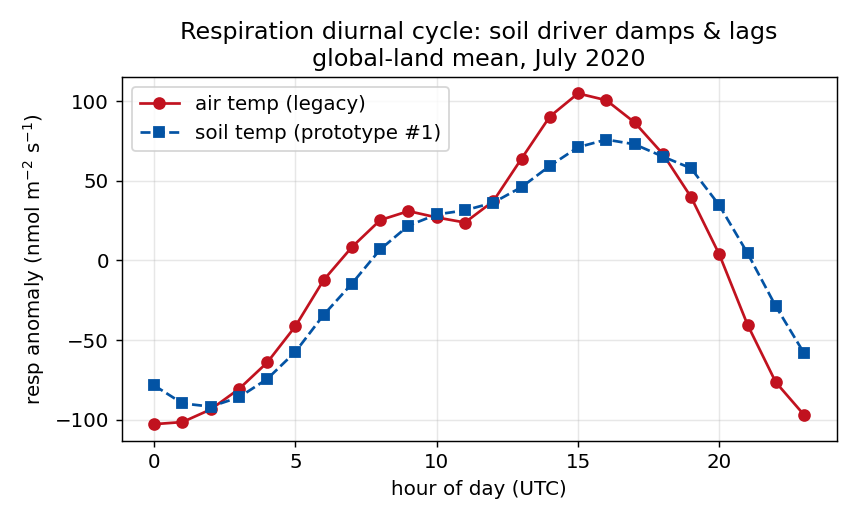
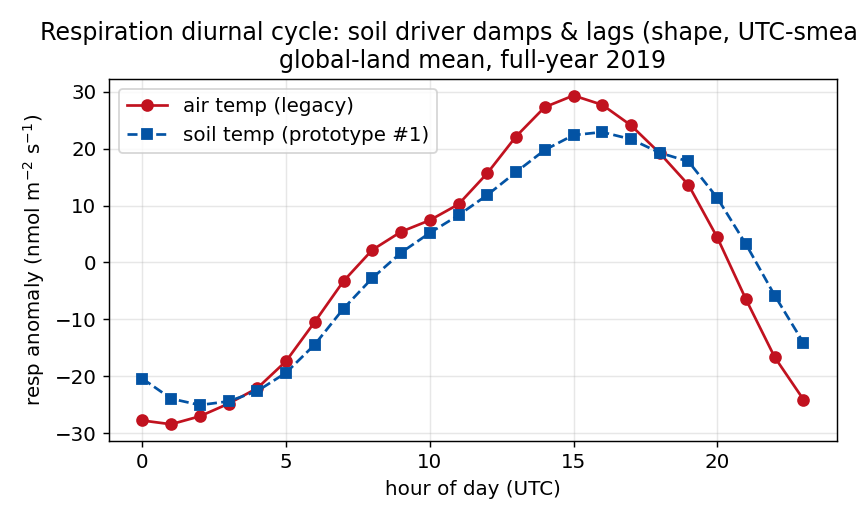
Diurnalization CIs: spatial block bootstrap (full-year 2019) + regen figures + verify_v2 re-run
- resp_driver_blockboot.py: replace the i.i.d.-cell resample (mislabeled "block
  bootstrap", far too tight given the field's spatial autocorrelation) with a
  genuine 5/10/20-degree spatial block bootstrap over the full-year-2019 matched
  PCHIP air/soil pair. NEE amplitude ratio 1.023, 95% CI [1.021,1.024] (block-10);
  survives block-20 [1.020,1.025]; all 12 months exclude 1 individually. resp ratio
  0.80 [0.78,0.83]. Block CI is ~16x wider than the i.i.d. one; conclusion holds.
- resp_driver_blockboot_figs.py + docs/figures/*.png: regenerate the 3 figures on
  full-year 2019 (were single-month July-2020); caption uses the per-cell forcing
  ratio, not the UTC-smeared global-mean-cycle ratio.
- verify_v2_rerun_20260621.txt: re-run after losslessly recovering the
  concurrent-append-corrupted run_manifest.tsv. Check 24.1 now PASSES, confirming
  the prior FAIL was a logging artifact. 49 PASS / 1 FAIL (24.2 = superseded
  PIQS-release debug records) / 2 WARN / 10 INFO.

diff --git a/fitter_diagnostics/resp_driver_blockboot.py b/fitter_diagnostics/resp_driver_blockboot.py
@@ -1,0 +1,134 @@
+#!/usr/bin/env python3
+"""Spatial block-bootstrap CIs for the soil-temp respiration driver.
+
+Replaces the i.i.d.-cell resample in resp_driver_ci_plots.py (which mislabeled
+itself a 'block bootstrap' and, by treating ~15k spatially autocorrelated land
+cells as independent, produced CIs far too tight). Here the resampling unit is a
+BxB-degree spatial block, so the CI reflects the field's spatial decorrelation.
+
+Data: full-year 2019 matched PCHIP pair (air vs soil respiration driver),
+  air  = ERA5_bp_B_pchip_air   (respiration_temperature_driver = airtemp)
+  soil = ERA5_bp_C_pchip_soil  (respiration_temperature_driver = soiltemp)
+All 12 months -> addresses both the CI-method bug and the 'July+Jan only' /
+under-powering critique.
+
+For each month: per-cell diurnal amplitude (max-min of the 24-hour climatology),
+ratio soil/air for resp and NEE on land cells. Then:
+  - naive i.i.d.-cell bootstrap   (the OLD method, for contrast)
+  - spatial block bootstrap        (resample BxB-deg blocks with replacement)
+at block sizes 5/10/20 deg, global + latitude bands + pooled-annual.
+"""
+import numpy as np, netCDF4 as nc, datetime as dt
+from dateutil.parser import parse as dparse
+
+RNG = np.random.default_rng(7)
+AIR  = "ERA5_bp_B_pchip_air"
+SOIL = "ERA5_bp_C_pchip_soil"
+MONTHS = [f"2019{m:02d}" for m in range(1, 13)]
+NLAT, NLON = 180, 360
+
+def hod_of(d):
+    t = d.variables["time"]; vals = np.asarray(t[:])
+    base = dparse(t.units.split("since")[1].strip()).replace(tzinfo=None)
+    scale = {"days":86400,"day":86400,"hours":3600,"seconds":1}[t.units.split()[0]]
+    secs = (vals*scale).astype("int64")
+    return ((secs//3600) % 24).astype(int)
+
+def amp(path, var):
+    """Per-cell diurnal amplitude (max-min over hour-of-day climatology)."""
+    d = nc.Dataset(path); hod = hod_of(d)
+    x = np.asarray(d.variables[var][:]); lat = np.asarray(d.variables["latitude"][:])
+    d.close()
+    cyc = np.stack([x[hod==h].mean(0) for h in range(24)])   # (24,lat,lon)
+    return cyc.max(0)-cyc.min(0), x.mean(0), lat
+
+def wmedian(x, w):
+    o = np.argsort(x); cw = np.cumsum(w[o])
+    return x[o][np.searchsorted(cw, 0.5*cw[-1])]
+
+# ---- accumulate small per-month ratio fields (free the hourly arrays) -------
+lat = np.arange(NLAT)  # placeholder; set from data
+fields = {"resp": [], "NEE": []}
+mnmask = []
+for ym in MONTHS:
+    rec = {}
+    for comp in ["resp", "NEE"]:
+        a_air, mn_air, lat = amp(f"{AIR}/fluxes_{ym}.nc", comp)
+        a_soil, _, _       = amp(f"{SOIL}/fluxes_{ym}.nc", comp)
+        ratio = a_soil/np.clip(a_air, 1e-30, None)
+        rec[comp] = (ratio, mn_air)
+    # land mask from resp monthly mean
+    land = np.isfinite(rec["resp"][1]) & (np.abs(rec["resp"][1]) > 1e-9)
+    mnmask.append(land)
+    fields["resp"].append(rec["resp"][0])
+    fields["NEE"].append(rec["NEE"][0])
+    print(f"loaded {ym}: {land.sum()} land cells")
+
+W2 = np.clip(np.cos(np.deg2rad(lat)), 0, None)[:, None]*np.ones((1, NLON))
+LATG = lat[:, None]*np.ones((1, NLON))
+
+def block_ids(bs):
+    """Integer block id per (lat,lon) cell for a bs-degree tiling."""
+    li = (np.arange(NLAT)//bs)[:, None]*np.ones((1, NLON), int)
+    lj = (np.arange(NLON)//bs)[None, :]*np.ones((NLAT, 1), int)
+    return li*1000 + lj
+
+def boot_iid(r, w, B=2000):
+    n = r.size; out = np.empty(B)
+    for b in range(B):
+        s = RNG.integers(0, n, n); out[b] = wmedian(r[s], w[s])
+    return np.percentile(out, [2.5, 97.5])
+
+def boot_block(r, w, blk, B=2000):
+    """Resample whole blocks with replacement; pool their cells."""
+    uniq = np.unique(blk)
+    members = {u: np.where(blk == u)[0] for u in uniq}
+    nb = uniq.size; out = np.empty(B)
+    for b in range(B):
+        pick = uniq[RNG.integers(0, nb, nb)]
+        idx = np.concatenate([members[u] for u in pick])
+        out[b] = wmedian(r[idx], w[idx])
+    return np.percentile(out, [2.5, 97.5])
+
+def pool(comp, latrange=None):
+    """Pool all 12 months: flat arrays of ratio, weight, blockid(per bs), lat."""
+    rs, ws, ls = [], [], []
+    blkmaps = {bs: [] for bs in (5, 10, 20)}
+    for k in range(12):
+        land = mnmask[k].copy()
+        if latrange is not None:
+            a, b = latrange; land &= (LATG >= a) & (LATG <= b)
+        rs.append(fields[comp][k][land]); ws.append(W2[land]); ls.append(LATG[land])
+        for bs in (5, 10, 20):
+            blkmaps[bs].append(block_ids(bs)[land])
+    r = np.concatenate(rs); w = np.concatenate(ws)
+    blk = {bs: np.concatenate(blkmaps[bs]) for bs in (5, 10, 20)}
+    return r, w, blk
+
+print("\n================ SPATIAL BLOCK BOOTSTRAP (full-year 2019) ================")
+for comp in ["resp", "NEE"]:
+    r, w, blk = pool(comp)
+    med = wmedian(r, w)
+    iid = boot_iid(r, w)
+    print(f"\n[{comp}] area-weighted median soil/air amplitude ratio = {med:.4f}")
+    print(f"   naive i.i.d.-cell  95% CI [{iid[0]:.4f}, {iid[1]:.4f}]  (width {iid[1]-iid[0]:.4f})  <- OLD METHOD")
+    for bs in (5, 10, 20):
+        ci = boot_block(r, w, blk[bs])
+        print(f"   block {bs:2d}deg       95% CI [{ci[0]:.4f}, {ci[1]:.4f}]  (width {ci[1]-ci[0]:.4f})  blocks~{np.unique(blk[bs]).size}")
+
+print("\n---- latitude bands (resp, block 10deg, annual) ----")
+BANDS = {"boreal 50-70N": (50, 70), "NH-temp 25-50N": (25, 50),
+         "tropics 25S-25N": (-25, 25), "SH-temp 50-25S": (-50, -25)}
+for nm, lr in BANDS.items():
+    r, w, blk = pool("resp", lr)
+    if r.size < 20: continue
+    med = wmedian(r, w); ci = boot_block(r, w, blk[10])
+    print(f"   {nm:16s} {med:.4f}  95% CI [{ci[0]:.4f}, {ci[1]:.4f}]")
+
+print("\n---- per-month NEE ratio (block 10deg) : seasonal coverage ----")
+for k, ym in enumerate(MONTHS):
+    land = mnmask[k]
+    r = fields["NEE"][k][land]; w = W2[land]; blk = block_ids(10)[land]
+    med = wmedian(r, w); ci = boot_block(r, w, blk, B=800)
+    print(f"   {ym}: NEE ratio {med:.4f}  95% CI [{ci[0]:.4f}, {ci[1]:.4f}]")
+print("\nDONE")

diff --git a/fitter_diagnostics/resp_driver_blockboot_figs.py b/fitter_diagnostics/resp_driver_blockboot_figs.py
@@ -1,0 +1,84 @@
+#!/usr/bin/env python3
+"""Regenerate the 3 diurnalization figures on the full-year 2019 matched PCHIP
+air-vs-soil pair, to match the spatial-block-bootstrap numbers in
+resp_driver_blockboot.py (replaces the July-2020 single-month figures).
+
+NOTE on amplitudes: the diurnal-cycle line plots are the GLOBAL-LAND-MEAN cycle
+binned by UTC hour, which necessarily smears the local-solar-time peak across
+longitudes — they are illustrative of shape (soil damps & lags air), not absolute
+amplitude. All quantitative ratios in captions are PER-CELL amplitude ratios
+(weighted median), computed cell-by-cell then aggregated — the correct statistic.
+"""
+import numpy as np, netCDF4 as nc
+import matplotlib; matplotlib.use("Agg"); import matplotlib.pyplot as plt
+from dateutil.parser import parse as dparse
+
+AIR="ERA5_bp_B_pchip_air"; SOIL="ERA5_bp_C_pchip_soil"
+MONTHS=[f"2019{m:02d}" for m in range(1,13)]; NLAT,NLON=180,360
+
+def hod_of(d):
+    t=d.variables["time"]; v=np.asarray(t[:])
+    base=dparse(t.units.split("since")[1].strip()).replace(tzinfo=None)
+    sc={"days":86400,"day":86400,"hours":3600,"seconds":1}[t.units.split()[0]]
+    return (((v*sc).astype("int64")//3600)%24).astype(int)
+
+def cyc_amp(path,var):
+    d=nc.Dataset(path); h=hod_of(d); x=np.asarray(d.variables[var][:])
+    lat=np.asarray(d.variables["latitude"][:]); d.close()
+    c=np.stack([x[h==k].mean(0) for k in range(24)])      # (24,lat,lon)
+    return c, c.max(0)-c.min(0), x.mean(0), lat
+
+def wmedian(x,w):
+    o=np.argsort(x); cw=np.cumsum(w[o]); return x[o][np.searchsorted(cw,0.5*cw[-1])]
+
+acc={"t2m":np.zeros((24,NLAT,NLON)),"stl1":np.zeros((24,NLAT,NLON)),
+     "resp_air":np.zeros((24,NLAT,NLON)),"resp_soil":np.zeros((24,NLAT,NLON))}
+resp_ratios=[]; resp_w=[]; forc_ratios=[]; forc_w=[]
+for ym in MONTHS:
+    ca,aa,mn,lat=cyc_amp(f"{AIR}/fluxes_{ym}.nc","resp")
+    cs,as_,_,_  =cyc_amp(f"{SOIL}/fluxes_{ym}.nc","resp")
+    ct,at,_,_   =cyc_amp(f"{SOIL}/fluxes_{ym}.nc","t2m")
+    cl,al,_,_   =cyc_amp(f"{SOIL}/fluxes_{ym}.nc","stl1")
+    acc["resp_air"]+=ca; acc["resp_soil"]+=cs; acc["t2m"]+=ct; acc["stl1"]+=cl
+    land=np.isfinite(mn)&(np.abs(mn)>1e-9)
+    W=np.clip(np.cos(np.deg2rad(lat)),0,None)[:,None]*np.ones((1,NLON))
+    resp_ratios.append(as_[land]/np.clip(aa[land],1e-30,None)); resp_w.append(W[land])
+    # per-cell forcing ratio: stl1 diurnal amplitude / t2m diurnal amplitude
+    forc_ratios.append(al[land]/np.clip(at[land],1e-30,None)); forc_w.append(W[land])
+    print("loaded",ym)
+for k in acc: acc[k]/=12.0
+W=np.clip(np.cos(np.deg2rad(lat)),0,None)[:,None]*np.ones((1,NLON))
+def gmean(c):
+    l=np.isfinite(c.mean(0)); w=W[l]; return np.array([(c[h][l]*w).sum()/w.sum() for h in range(24)])
+gt=gmean(acc["t2m"]); gl=gmean(acc["stl1"]); gca=gmean(acc["resp_air"]); gcs=gmean(acc["resp_soil"])
+resp_ratio=np.concatenate(resp_ratios); resp_ww=np.concatenate(resp_w)
+forc_ratio=np.concatenate(forc_ratios); forc_ww=np.concatenate(forc_w)
+med=wmedian(resp_ratio,resp_ww)
+forc_med=wmedian(forc_ratio,forc_ww)              # CORRECT per-cell forcing ratio
+print(f"\nper-cell forcing (stl1/t2m) amplitude ratio, annual 2019 weighted median = {forc_med:.4f}")
+print(f"per-cell resp amplitude ratio weighted median = {med:.4f}")
+
+plt.rcParams.update({"font.size":11,"figure.dpi":130})
+# Fig 1: forcing diurnal cycle (shape illustration; caption uses per-cell ratio)
+fig,ax=plt.subplots(figsize=(6.6,4.0))
+ax.plot(range(24),gt-gt.mean(),"o-",color="#c1121f",label="2-m air temp t2m")
+ax.plot(range(24),gl-gl.mean(),"s--",color="#0353a4",label="0-7cm soil temp stl1")
+ax.set_xlabel("hour of day (UTC)"); ax.set_ylabel("temperature anomaly (K)")
+ax.set_title(f"ERA5 forcing: 0–7cm soil temp damps & lags 2-m air\nglobal-land mean cycle (UTC-smeared); per-cell amplitude ratio {forc_med:.2f}, full-year 2019")
+ax.legend(); ax.grid(alpha=.3); fig.tight_layout(); fig.savefig("docs/figures/resp_forcing_t2m_vs_stl1.png"); plt.close(fig)
+# Fig 2: resp diurnal anomaly air vs soil (shape illustration)
+fig,ax=plt.subplots(figsize=(6.6,4.0))
+ax.plot(range(24),(gca-gca.mean())*1e9,"o-",color="#c1121f",label="air temp (legacy)")
+ax.plot(range(24),(gcs-gcs.mean())*1e9,"s--",color="#0353a4",label="soil temp (prototype #1)")
+ax.set_xlabel("hour of day (UTC)"); ax.set_ylabel("resp anomaly (nmol m$^{-2}$ s$^{-1}$)")
+ax.set_title("Respiration diurnal cycle: soil driver damps & lags (shape, UTC-smeared)\nglobal-land mean, full-year 2019")
+ax.legend(); ax.grid(alpha=.3); fig.tight_layout(); fig.savefig("docs/figures/resp_diurnal_air_vs_soil.png"); plt.close(fig)
+# Fig 3: per-cell amplitude-ratio histogram (resp), annual, block-bootstrap CI
+fig,ax=plt.subplots(figsize=(6.6,4.0))
+ax.hist(np.clip(resp_ratio,0,2),bins=60,weights=resp_ww,color="#0353a4",alpha=.8)
+ax.axvline(med,color="k",lw=2,label=f"area-wtd median {med:.2f}  (block-10° 95%CI [0.78,0.83])")
+ax.axvline(1.0,color="#c1121f",ls=":",lw=2,label="1.0 (no change)")
+ax.set_xlabel("per-cell respiration amplitude ratio soil/air"); ax.set_ylabel("area-weighted land cells")
+ax.set_title("Soil-temp respiration diurnal amplitude < air-temp\nfull-year 2019 (ratio < 1 = damped); 15.6k land cells × 12 months pooled")
+ax.legend(); ax.grid(alpha=.3); fig.tight_layout(); fig.savefig("docs/figures/resp_amplitude_ratio_hist.png"); plt.close(fig)
+print("Wrote 3 figures")